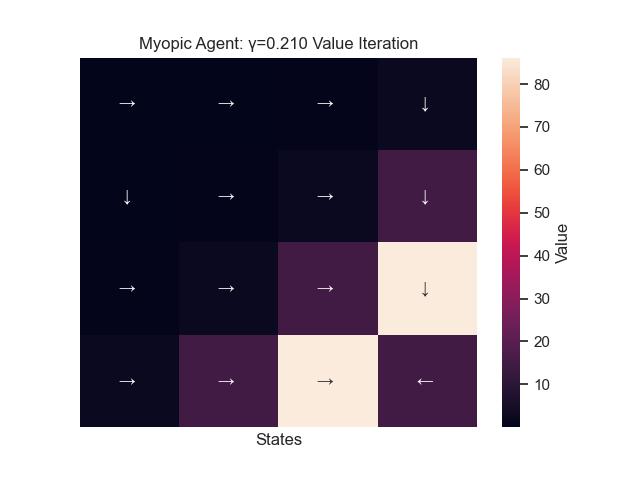
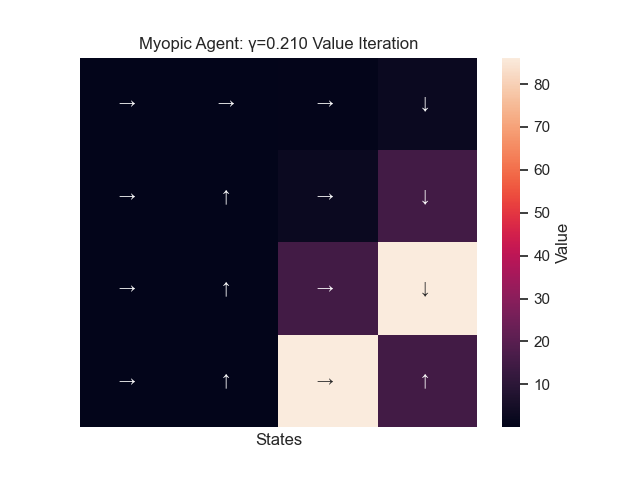
Added ability to add multiple/custom rewards

diff --git a/mdp.py b/mdp.py
@@ -219,21 +219,25 @@ class Experiment_1D():
 
 class Experiment_2D():
 
-    def __init__(self, height, width, make_right_prob=0.8, neg_idx=-1, neg_magnitude=-1, reward_idx=-1, reward_magnitude=100):
-        if not (reward_idx >= 0 and reward_idx < width*height):
-            reward_idx = reward_idx % (width*height)
-        if not (neg_idx >= 0 and neg_idx < width*height):
-            neg_idx = neg_idx % (width*height)
-        self.S, self.A, self.T, self.R, self.gamma = self.make_MDP_params(height, width, make_right_prob, neg_idx, neg_magnitude, reward_idx, reward_magnitude)
-        self.neg_idx = neg_idx
-        self.neg_magnitude = neg_magnitude
-        self.reward_idx = reward_idx
-        self.reward_magnitude = reward_magnitude
+    def __init__(self, height, width, make_right_prob=0.8, rewards_dict={-1:100, -2:-100, -6:-100, -10:-100}):
+    # def __init__(self, height, width, make_right_prob=0.8, neg_idx=-1, neg_magnitude=-1, reward_idx=-1, reward_magnitude=100):
+        fixed_rewards_dict = {}
+        for idx in rewards_dict:
+            if not (idx >= 0 and idx < width*height):
+                fixed_rewards_dict[idx % (width*height)] = rewards_dict[idx]
+            else:
+                fixed_rewards_dict[idx] = rewards_dict[idx]
+        rewards_dict = fixed_rewards_dict
+        print(rewards_dict)
+        
+        self.S, self.A, self.T, self.R, self.gamma = self.make_MDP_params(height, width, make_right_prob, rewards_dict)
+        self.rewards_dict = rewards_dict
         self.height = height
         self.width = width
         self.mdp = MDP_2D(self.S, self.A, self.T, self.R, self.gamma)
 
-    def make_MDP_params(self, height, width, make_right_prob, neg_idx, neg_magnitude, reward_idx, reward_magnitude):
+    def make_MDP_params(self, height, width, make_right_prob, rewards_dict):
+    # def make_MDP_params(self, height, width, make_right_prob, neg_idx, neg_magnitude, reward_idx, reward_magnitude):
         S = np.arange(height*width).reshape(height, -1)
         A = np.array((0, 1, 2, 3)) # 0 is left, 1 is right, 2 is up, 3 is down
         gamma = 0.5
@@ -292,10 +296,11 @@ class Experiment_2D():
             # check top border
             if idx >= width and idx-width >= 0:
                 R[idx-width, 3, idx] = magnitude
-            
-
-        assign_reward(reward_idx, reward_magnitude)
-        assign_reward(neg_idx, neg_magnitude)
+        
+        for idx in rewards_dict:
+            assign_reward(idx, rewards_dict[idx])
+        # assign_reward(reward_idx, reward_magnitude)
+        # assign_reward(neg_idx, neg_magnitude)
 
         return S, A, T, R, gamma
 
@@ -304,7 +309,7 @@ class Experiment_2D():
 
     def confident(self, make_right_prob):
         # probability is LOWER than the "true": UNDERCONFIDENT
-        S, A, T, R, gamma = self.make_MDP_params(self.height, self.width, make_right_prob, neg_idx, neg_magnitude, self.reward_idx, self.reward_magnitude)
+        S, A, T, R, gamma = self.make_MDP_params(self.height, self.width, make_right_prob, self.rewards_dict)
         self.mdp = MDP_2D(S, A, T, R, gamma)
 
     def reward(self, R):
@@ -319,7 +324,7 @@ if __name__ == '__main__':
 
     # our baseline:
     # test = Experiment_1D(length, default_prob)
-    test = Experiment_2D(4, 4, neg_idx=-11, neg_magnitude=-1000)
+    test = Experiment_2D(4, 4)
     test.mdp.solve('Baseline World')
     neg_idx = 8
     neg_magnitude = -10
